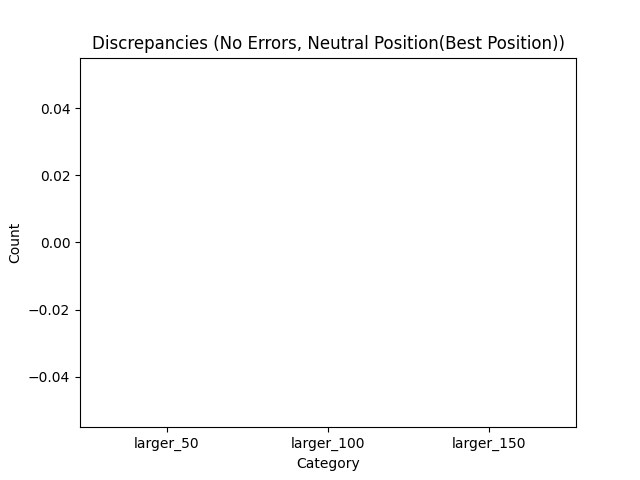
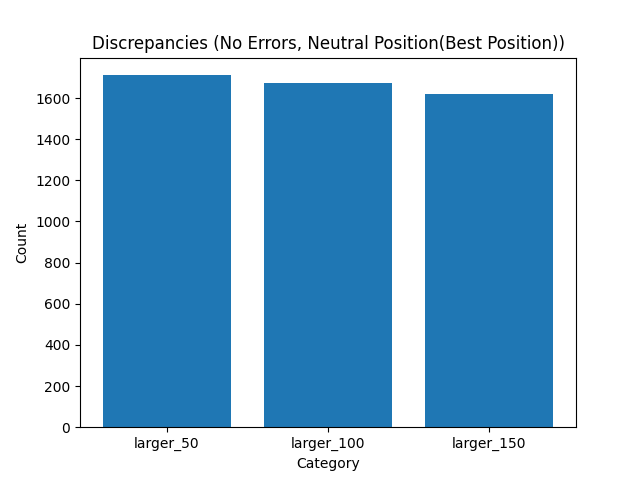
1. Minor code refactoring

diff --git a/data_processor.py b/data_processor.py
@@ -4,13 +4,27 @@ import seaborn as sns
 from typing import Callable
 from mpl_toolkits.mplot3d import Axes3D
 
-save_file_path = "data_storage/images/default.png"
+save_img_file_path = "data_storage/images/default.png"
+save_csv_file_path = "data_storage/output_data/default.csv"
 fig_height = 10  # inches
 fig_width = 20  # inches
 
 
+def rename_img_file(name: str) -> str:
+    global save_img_file_path
+    file_path = save_img_file_path.replace("default.png", name)
+    return file_path
+
+
+def rename_csv_file(name: str) -> str:
+    global save_csv_file_path
+    file_path = save_csv_file_path.replace("default.csv", name)
+    return file_path
+
+
 def get_discrepancies(values: list[int]) -> dict[str, list[int]]:
-        """ Discrepancies are represented as dict:
+        """
+        Discrepancies are represented as dict:
         {
         "larger_50": [1, 2, 3],
         "larger_100": [1, 2, 3],
@@ -105,6 +119,24 @@ def describe_sensors_values(df: pd.DataFrame) -> None:
         """
         return [len(values) for values in sensors_values]
 
+    def convert_to_dataframe(orig_data_lens: list[int], cleaned_data_lens: list[int]) -> pd.DataFrame:
+        """ The data as {"col_name": int or string}
+        will be converted to dataframe in pandas
+        """
+        compressed_data = {}
+        sensors      = [f"Sensor {i}" for i in range(len(orig_data_lens))]
+        accuracies   = list(map(lambda x, y: round(x/y*100, 2), cleaned_data_lens, orig_data_lens))
+        out_of_range = list(map(lambda x: round(100-x, 2), accuracies))
+        total_values_removed = list(map(lambda x, y: x-y, orig_data_lens, cleaned_data_lens))
+        """ Save results in dataframe """
+        compressed_data["index"] = sensors
+        compressed_data["Accuracy (%)"] = accuracies
+        compressed_data["Out of Range (%)"] = out_of_range
+        compressed_data["Valid Values"] = cleaned_data_lens
+        compressed_data["Invalid Values"] = total_values_removed
+        compressed_data["Total Values"] = orig_data_lens
+        return pd.DataFrame.from_dict(compressed_data)
+
     """ Show general statistics """
     sensor_columns = ["Sensor 1", "Sensor 2", "Sensor 3", "Sensor 4"]  # name of the columns containing the values
     interested_characteristics = ["count", "mean", "min", "max", "std"]
@@ -118,20 +150,8 @@ def describe_sensors_values(df: pd.DataFrame) -> None:
     orig_data_lengths = get_lengths(sensors_values=data)
     cleaned_data = [filtered_list_from_errors(values) for values in data]
     cleaned_data_lengths = get_lengths(sensors_values=cleaned_data)
-    sensor_id = 1
-    total_values_valid = 0
-    total_values_removed = 0
-    for original_length, cleaned_length in zip(orig_data_lengths, cleaned_data_lengths):
-        accuracy = round(cleaned_length/original_length*100, 2)
-        out_of_range = round(100-accuracy, 2)
-        print(f"Sensor {sensor_id} has accuracy {accuracy}%\t"
-              f"Out of Range: {out_of_range}\t"
-              f"Valid values: {cleaned_length}\t"
-              f"Invalid values: {original_length-cleaned_length}\t"
-              f"Total values: {original_length}")
-        sensor_id += 1
-        total_values_valid += cleaned_length
-        total_values_removed += original_length - cleaned_length
+    df_stats = convert_to_dataframe(orig_data_lengths, cleaned_data_lengths)
+    df_stats.to_csv(rename_csv_file(f"sensor_accuracy_data_{df.name}.csv"), index=False)
 
 
 def find2_correlations(df: pd.DataFrame, col1: str, col2: str) -> None:
@@ -222,9 +242,7 @@ def visualize_clusters(df, label_col, title_note=None):
     else:
         title = f"Values Clustering ({label_col})"
     plt.title(title)
-    global save_file_path
-    file_path = save_file_path.replace("default.png", title)
-    plt.savefig(file_path)
+    plt.savefig(rename_img_file(title))
     plt.close()
 
 
@@ -247,8 +265,7 @@ def show_corr_map(df: pd.DataFrame, notes=None) -> None:
     sns.heatmap(correlation_matrix, annot=True, cmap='coolwarm')
     title = "Corr Map"
     # plt.show()
-    global save_file_path
-    file_path = save_file_path.replace("default.png", title)
+    file_path = rename_img_file(title)
     if notes is not None:
         comment = f"({notes})"
         file_path += comment
@@ -286,9 +303,7 @@ def show_subplots(data: dict, title: str, columns_to_compress: list[str]) -> Non
     plt.tight_layout()
     # plt.show()
     """ Save image """
-    global save_file_path
-    file_path = save_file_path.replace("default.png", title)
-    fig.savefig(file_path)
+    fig.savefig(rename_img_file(title))
     plt.close()
 
 
@@ -305,7 +320,5 @@ def show_bar_chart(data, title: str) -> None:
     plt.ylabel('Count')
     plt.title(title)
     # plt.show()
-    global save_file_path
-    file_path = save_file_path.replace("default.png", title)
-    plt.savefig(file_path)
+    plt.savefig(rename_img_file(title))
     plt.close()

diff --git a/main.py b/main.py
@@ -46,7 +46,6 @@ if __name__ == '__main__':
     df_cleaned.name = "No Errors"
     dp.describe_sensors_values(df_cleaned)  # excludes error
 
-
     print('\n')
     print("Total VALID rows:\t", df_cleaned.shape[0])
     print("Total INVALID rows:\t", df_original.shape[0]-df_cleaned.shape[0])
